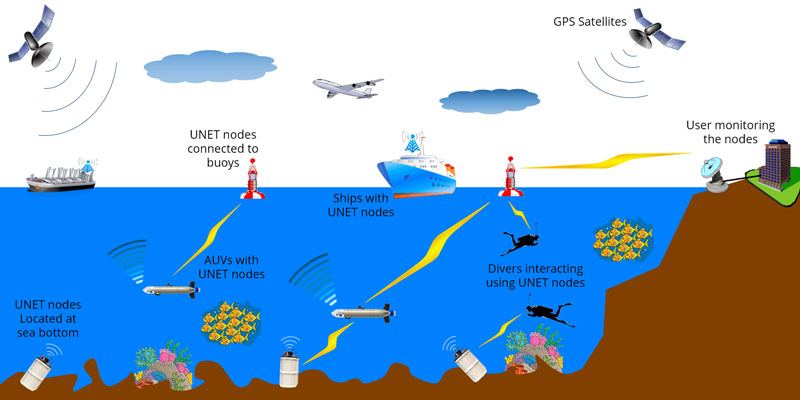
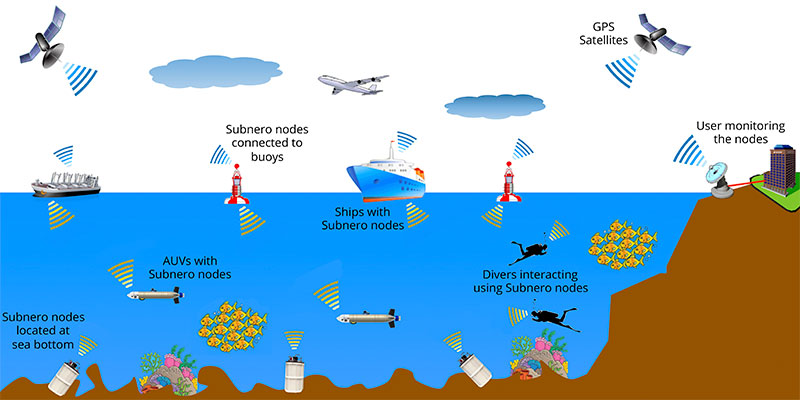
Changed UNET network diagrams

diff --git a/about/index.html b/about/index.html
@@ -12,8 +12,7 @@ title: About
 
 	The solutions not only include a state-of-the-art software-defined underwater modem, but also a highly customizable network stack (www.unetstack.net) that adapts to a variety of environments and applications. <br><br> 
 
-	While the stack runs a variety of optimized underwater network protocols, it also provides engineers and researchers with the flexibility to modify or specify new protocols.  An underwater network simulator complements the modem and stack, by providing an easy-to-use test environment in which network configurations and protocols can be tested prior to field experiments or deployments.  The simulator is fully compatible with the modem and stack, allowing end-to-end testing to manage the risks and reduce costs of at-sea testing.  In real-time mode, the simulator provides an accurate experience for operators and field engineers.  In discrete event mode, the simulator allows high throughput performance simulation worth weeks of real-time within minutes.  In addition to networking technology, Subnero also provides solutions of mobile data collection, underwater network management, data aggregation and analytics, and customization services.
-
+	
 	</p>
 	</div>
 

diff --git a/news/index.html b/news/index.html
@@ -12,7 +12,10 @@ title: News
 	  	<div class="post">
 	  	    <h2 class="title"><a href="{{ post.external_url }}" target="_blank" onclick="_gaq.push(['_trackpageview', '{{ post.url }}']);" >{{ post.title }} 
 	  	    </a></h2>
+			<div class="date">Posted on {{ post.date | date: "%-d %B %Y" }}  &nbsp &nbsp Source {{ post.source }}</div>
+
 	  	    <p>{{ post.content }}</p>
+
 	  		<br>
 		</div>
 	</li>
